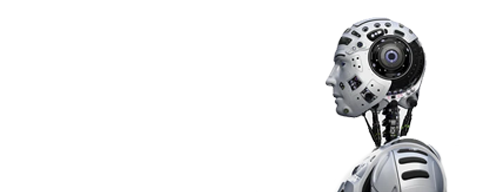
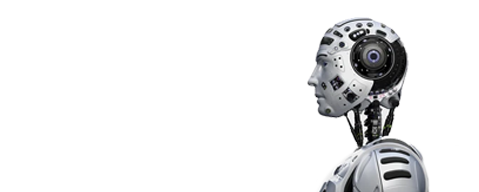
this will change the paper images to remove the white spacing and add styling to the buttons

Changed region(s): [[0.643, 0.0938, 0.9353, 1.0]]

diff --git a/index.html b/index.html
@@ -30,25 +30,22 @@
           class="buttons"
           id="rock-button"
           value="Rock"
-          src="./images/man.jpg"
         >
-          Rock
+          <img class="button-images"  src="./images/Rock.png">
         </button>
         <button
           class="buttons"
           id="paper-button"
           value="Paper"
-          src="./images/man.jpg"
         >
-          Paper
+        <img class="button-images" src="./images/Paper.png">
         </button>
         <button
           class="buttons"
           id="scissors-button"
           value="Scissors"
-          src="./images/man.jpg"
         >
-          Scissors
+        <img class="button-images"  src="./images/Scissors.png">
         </button>
       </section>
     </section>

diff --git a/styles.css b/styles.css
@@ -73,8 +73,25 @@ header {
 .buttons {
   height: 10rem;
   width: 10rem;
-  background-color: aqua;
   font-size: 2rem;
+  display: flex;
+  justify-content: center;
+  align-items: center;
+  background-color: black;
+  border-radius: 100px;
+  border-width: 4px;
+  border-color: white;
+  border-style: solid;
+}
+
+.button-images {
+  height: 6rem;
+  filter: invert(1);
+}
+
+.buttons:hover {
+  background-color: red;
+  cursor: pointer;
 }
 
 #score-area {
@@ -101,3 +118,4 @@ header {
   color:white;
   background-color: red;
 }
+
